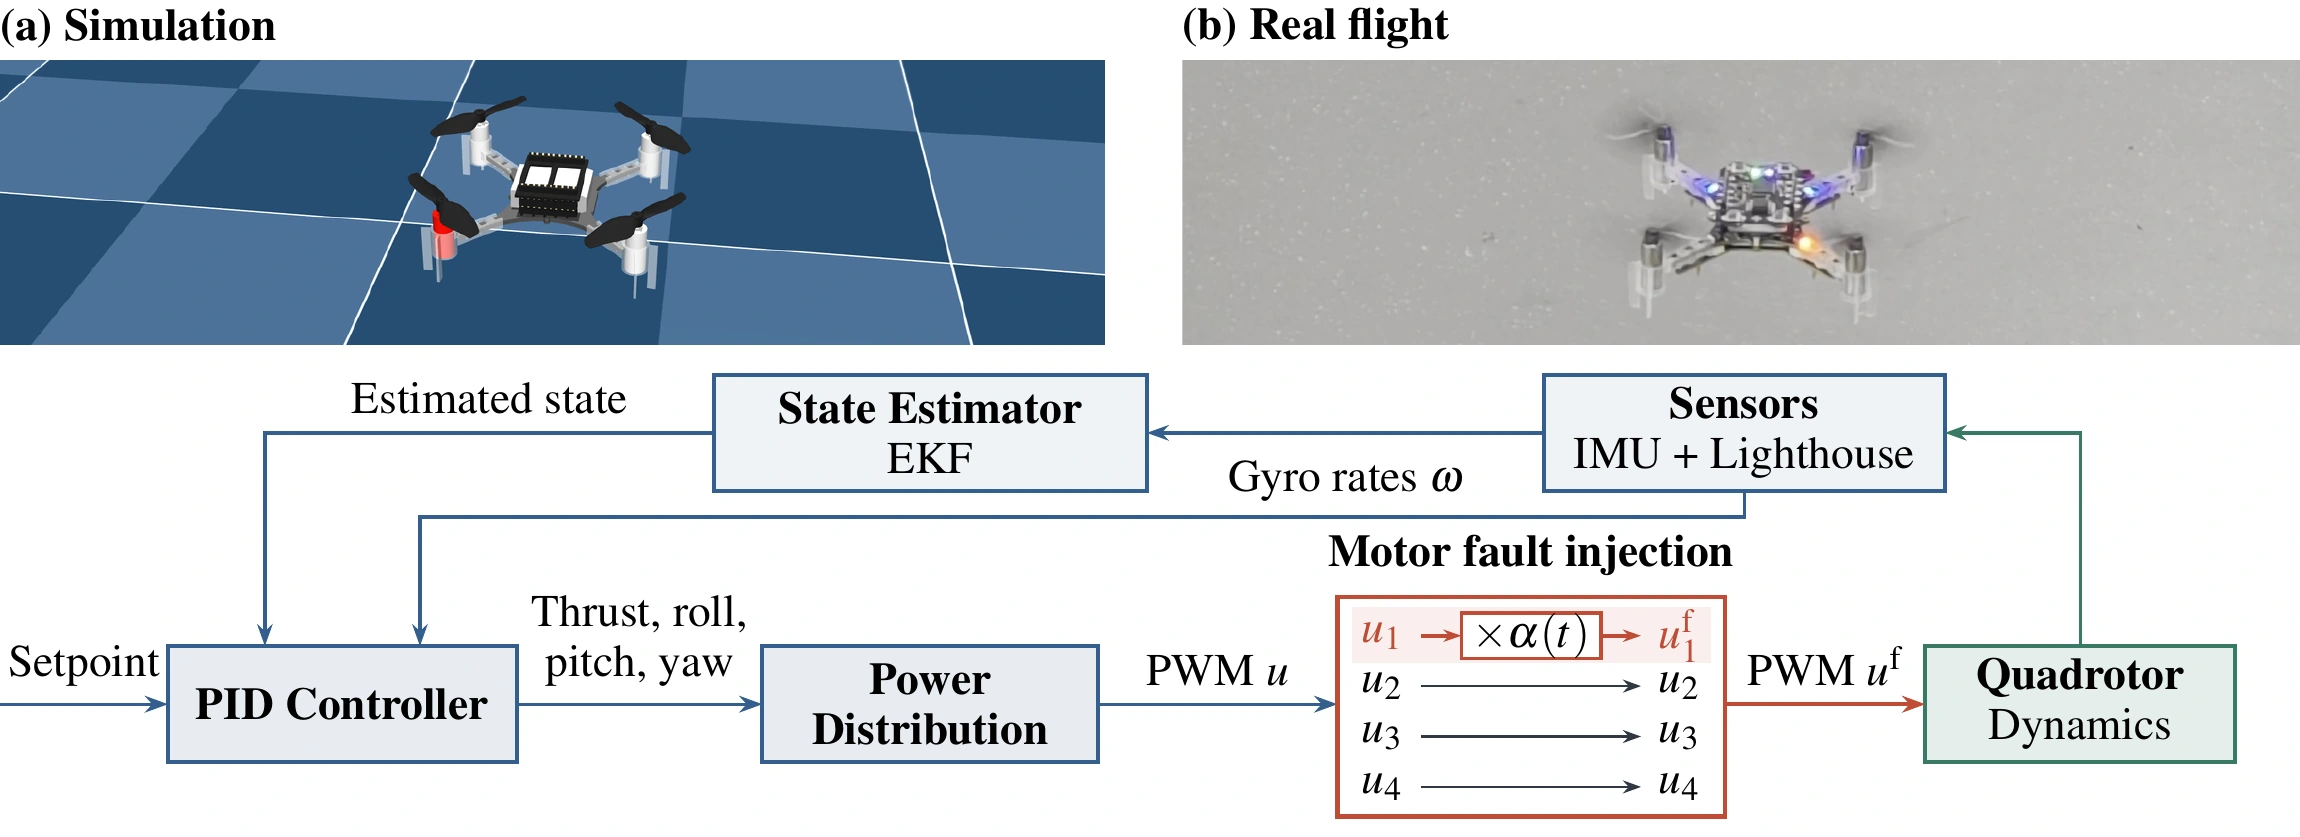
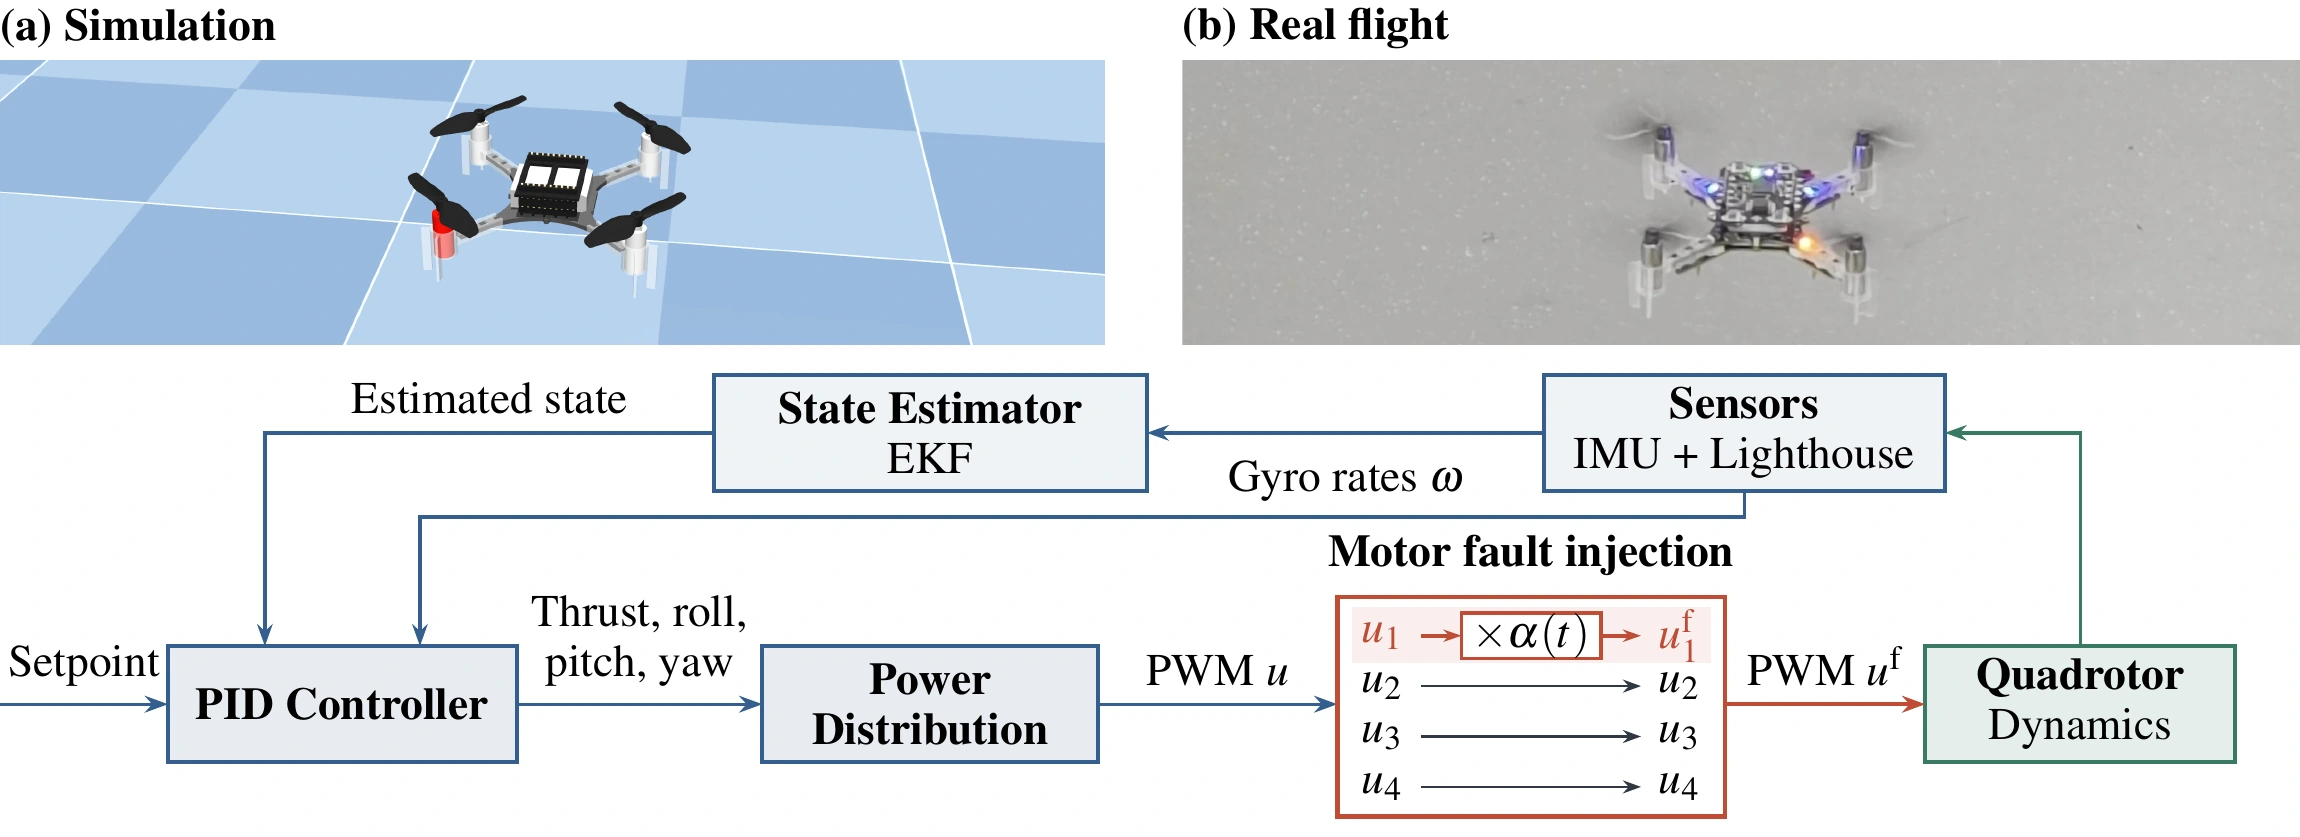
Match web flight platform figure to light paper background

Changed region(s): [[0.0, 0.0621, 0.4939, 0.4349]]

diff --git a/docs/index.html b/docs/index.html
@@ -67,7 +67,7 @@
         <p>Three Crazyflie 2.1+ quadrotors perform the same hover task with the standard PID controller. An onboard injector scales one motor’s PWM command after power distribution, while the feedback loop remains active. The records preserve the commanded actuation, resulting motion, and event timing.</p>
       </div>
       <figure class="wide-figure">
-        <div class="figure-scroll" aria-label="Flight platform and control diagram"><a class="figure-link" href="assets/flight-platform.webp" target="_blank" rel="noopener" aria-label="Open the complete flight platform figure at full size"><img class="technical-figure" src="assets/flight-platform.webp" alt="Simulation model and real Crazyflie flight above a closed-loop control diagram. The motor fault is injected after power distribution and before the quadrotor dynamics." width="2300" height="837" loading="lazy"></a></div>
+        <div class="figure-scroll" aria-label="Flight platform and control diagram"><a class="figure-link" href="assets/flight-platform.webp?v=06ddc9a820ef" target="_blank" rel="noopener" aria-label="Open the complete flight platform figure at full size"><img class="technical-figure" src="assets/flight-platform.webp?v=06ddc9a820ef" alt="Simulation model and real Crazyflie flight above a closed-loop control diagram. The motor fault is injected after power distribution and before the quadrotor dynamics." width="2300" height="837" loading="lazy"></a></div>
         <figcaption>The injector changes a single motor command. The flight controller’s corrective commands and measured motion remain available for diagnosis.</figcaption>
       </figure>
       <div class="dataset-facts reading">
